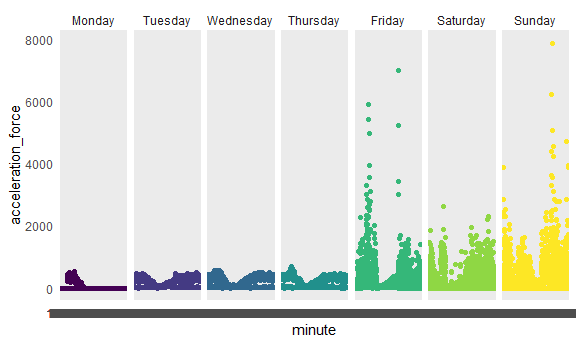
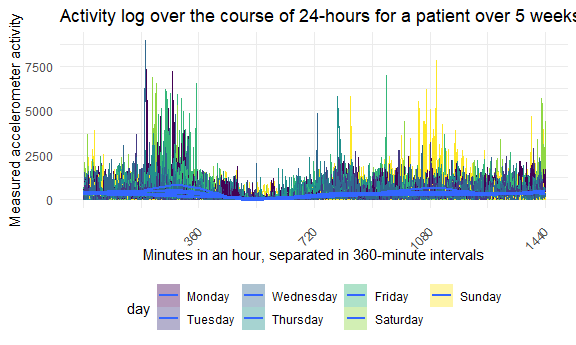
still trying to make graphs look nice

diff --git a/p8105_hw3_mgg2153.md b/p8105_hw3_mgg2153.md
@@ -107,6 +107,10 @@ instacart %>%
 
 ## Problem 2
 
+This dataset contains 5-weeks of accelerometer data for a 63 year old
+male with a BMI of 25. He was admitted to the hospital with congestive
+heart failure.
+
 Here we are uploading the accelerometers data and tidying it just a bit,
 including  
 (1) cleaning names (2) changing variable types (3) creating a binary
@@ -141,47 +145,76 @@ accel_df = read_csv("./data/accel_data.csv") %>%
 
     ## See spec(...) for full column specifications.
 
-The new, tidier dataset, accel\_df has 50400observations and 6
-variables. Those variables are weekday, week, day\_id, day, minute,
-acceleration\_force
+The new, tidier dataset, accel\_df has **50400**observations and **6**
+variables. Those variables are **weekday, week, day\_id, day, minute,
+acceleration\_force**
+
+To continue with visualizing the data, we will create a variable for the
+total activity for each day. We will show this table by week and day,
+using the code below:
 
 ``` r
 accel_df %>%
-group_by(day, week) %>%
-summarize(activity_total = sum(acceleration_force)) %>%
-pivot_wider(
-names_from = day,
-values_from = activity_total
+  mutate( 
+    day = forcats::fct_relevel(day, c("Monday", "Tuesday", "Wednesday", "Thursday", "Friday", "Saturday", "Sunday"))
+    ) %>%
+  group_by(day, week) %>%
+  summarize(activity_total = sum(acceleration_force)) %>%
+  pivot_wider(
+  names_from = day,
+  values_from = activity_total
 )
 ```
 
     ## `summarise()` regrouping output by 'day' (override with `.groups` argument)
 
     ## # A tibble: 5 x 8
-    ##   week   Friday  Monday Saturday Sunday Thursday Tuesday Wednesday
-    ##   <fct>   <dbl>   <dbl>    <dbl>  <dbl>    <dbl>   <dbl>     <dbl>
-    ## 1 1     480543.  78828.   376254 631105  355924. 307094.   340115.
-    ## 2 2     568839  295431    607175 422018  474048  423245    440962 
-    ## 3 3     467420  685910    382928 467052  371230  381507    468869 
-    ## 4 4     154049  409450      1440 260617  340291  319568    434460 
-    ## 5 5     620860  389080      1440 138421  549658  367824    445366
+    ##   week   Monday Tuesday Wednesday Thursday  Friday Saturday Sunday
+    ##   <fct>   <dbl>   <dbl>     <dbl>    <dbl>   <dbl>    <dbl>  <dbl>
+    ## 1 1      78828. 307094.   340115.  355924. 480543.   376254 631105
+    ## 2 2     295431  423245    440962   474048  568839    607175 422018
+    ## 3 3     685910  381507    468869   371230  467420    382928 467052
+    ## 4 4     409450  319568    434460   340291  154049      1440 260617
+    ## 5 5     389080  367824    445366   549658  620860      1440 138421
+
+From quickly glancing at the table, there do not appear to be any
+apparent trends, except that on Saturday for weeks 4 and 5, there seems
+to be significantly less activity than any of the other days on any of
+the other weeks.
+
+Next, we will actually make a plot\!
 
 ``` r
-#Accelerometer data allows the inspection activity over the course of the day. Make a single-panel plot that shows the 24-hour activity time courses for each day and #use color to indicate day of the week. Describe in words any patterns or conclusions you can make based on this graph.
+#Accelerometer data allows the inspection activity over the course of the day. Make a single-panel plot that shows 
+#the 24-hour activity time courses for each day and #use color to indicate day of the week. Describe in words any patterns 
+#or conclusions you can make based on this graph.
 
 accel_df %>%
-  filter(week == 1) %>%
   mutate(
     day = forcats::fct_relevel(day, c("Monday", "Tuesday", "Wednesday", "Thursday", "Friday", "Saturday", "Sunday")),
+    minute = as.numeric(minute)
     #lubridate::as.duration() lemme try to figure this one out
     ) %>%
-  ggplot(aes(x = minute, y = acceleration_force, fill = day))+
-  geom_point(aes(color = day))+
-  facet_grid(. ~ day)+
-  theme(legend.position = "none")
+  ggplot(aes(x = minute, y = acceleration_force,group = day_id, fill = day))+
+  geom_line(aes(color = day))+
+  geom_smooth(aes(group = day))+
+  scale_x_continuous(breaks = c(360, 720, 1080, 1440))+
+  labs(
+    x = "Minutes in an hour, separated in 360-minute intervals",
+    y = "Measured accelerometer activity",
+    title = "Activity log over the course of 24-hours for a patient over 5 weeks"
+  )+
+  theme(axis.text.x = element_text(angle = 45, vjust = 0.5, hjust = 1))
 ```
 
+    ## `geom_smooth()` using method = 'gam' and formula 'y ~ s(x, bs = "cs")'
+
 <img src="p8105_hw3_mgg2153_files/figure-gfm/unnamed-chunk-6-1.png" width="90%" />
+Looking at this plot, we can see that activity at the beginning of the
+24-hour period is low, likely corresponding to sleeping and stirring in
+the morning. As the day progresses, we see spikes corresponding to
+increasing activity throughout the day, with an additional spike at the
+end of the 24-hour period.
 
 ## Problem 3
 
@@ -191,6 +224,9 @@ measurements meant:
 
 gotta give proper credit to the people that investigated before me.
 Thanks google\!
+
+Below I am importing the data, cleaning the names, and ensuring that
+variables have meaningful values and make sense.
 
 ``` r
 data("ny_noaa")
@@ -242,11 +278,12 @@ frequent value for snowfall in mm for nyc is 0. This actually makes
 sense because how many months of the year is it actually cold enough to
 snow? Not that many (although with climate change who knows).
 
-And now I shall attempt to make a two-panel plot, which I ***believe***
-you need the library patchwork for:
+And now I shall attempt to make a two-panel plot of average max
+temperature in Jan and Jul in each station across years:
 
 ``` r
-library(wesanderson)
+#library(wesanderson) a color palette I wanted to use but trying to figure out the
+#syntax was taking too much time/brainspace. Next time!
 
 
 ny_weather_df %>%
@@ -279,14 +316,22 @@ ny_weather_df %>%
     ## Warning: Removed 5931 row(s) containing missing values (geom_path).
 
 <img src="p8105_hw3_mgg2153_files/figure-gfm/unnamed-chunk-8-1.png" width="90%" />
+Looking at this plot, we can see that average maximum temperature in
+January is less than the average maximum temperature in July. This makes
+sense because… January is winter, and July is in the summer\! Also, we
+can see a sort of zig-zag pattern for both months, showing the
+fluctuation in max temperature throughout the years.
+
+Below, I am making three separate plots. Three because I decided to
+separate the snowfall into three different plots, to de-clutter the year
+on the x-axis
 
 ``` r
 library(patchwork)
 library(ggridges)
 
 #Make a two-panel plot showing (i) tmax vs tmin for the full dataset (note that a scatterplot may not be the best option); and (ii) make a plot showing the distribution of snowfall values greater than 0 and less than 100 separately by year.
-#violin plot
-#box plots????
+
 
 tmax_v_tmin = 
 ny_weather_df %>%
